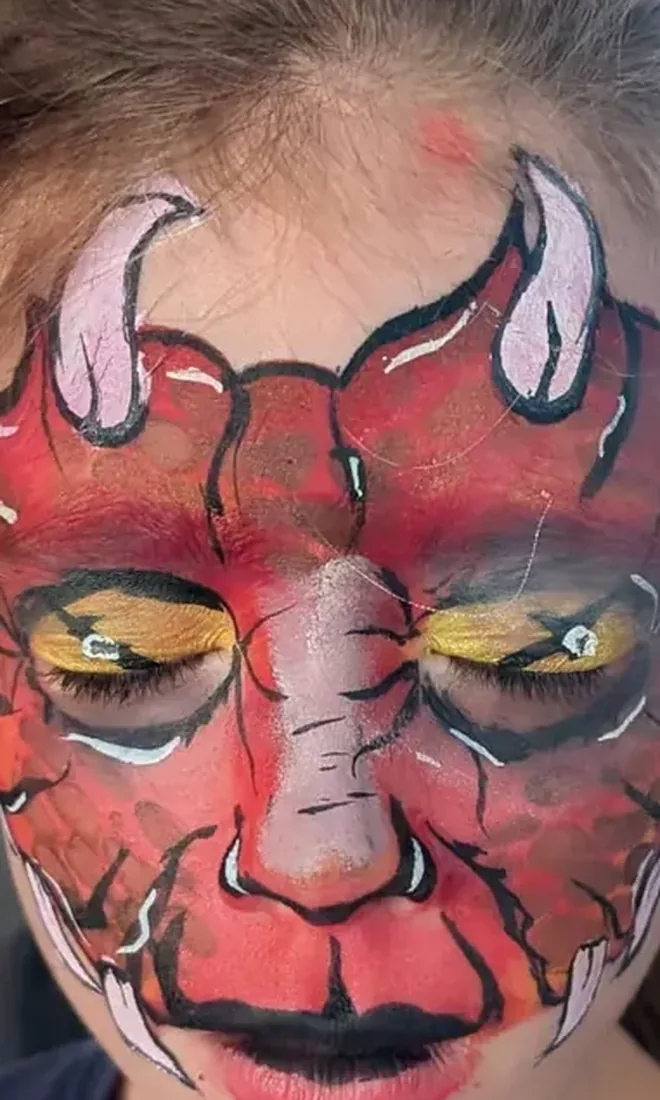
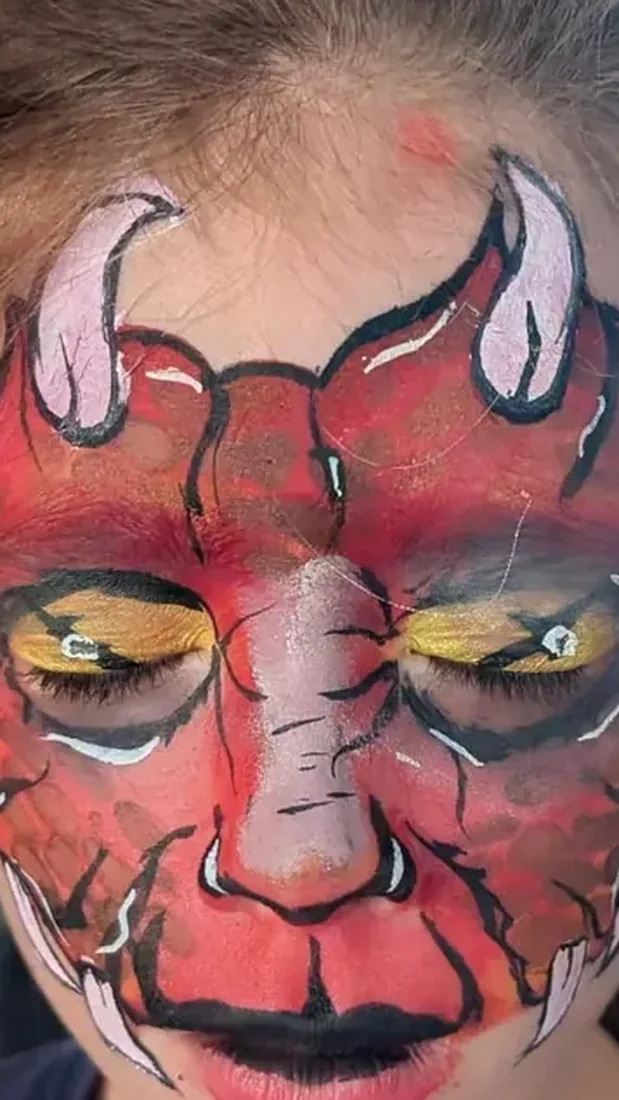
Halloween page: taller, narrower photo line
Claude-Session: https://claude.ai/code/session_012bdPLZhqYkLUzfzYFPc2Bh

diff --git a/hw/halloween-face-painting.html b/hw/halloween-face-painting.html
@@ -193,10 +193,10 @@ h2{font-size:clamp(32px,4.4vw,52px)}
 .dates span.hot{background:var(--orange);color:#1A0B10;border-color:transparent}
 /* strip */
 .strip-wrap{padding:8px 0 4px;background:rgba(12,5,22,.35);backdrop-filter:none}
-.strip{display:grid;grid-auto-flow:column;grid-auto-columns:minmax(330px,1fr);gap:12px;overflow-x:auto;padding:16px 16px 10px;scroll-snap-type:x mandatory;scrollbar-width:none}
+.strip{display:grid;grid-auto-flow:column;grid-auto-columns:minmax(290px,1fr);gap:12px;overflow-x:auto;padding:16px 16px 10px;scroll-snap-type:x mandatory;scrollbar-width:none}
 .strip::-webkit-scrollbar{display:none}
 .strip a{position:relative;display:block;scroll-snap-align:start;border-radius:16px;overflow:hidden;text-decoration:none;color:#fff}
-.strip img{width:100%;height:auto;aspect-ratio:3/5;object-fit:cover;object-position:50% 45%;transition:transform .4s}
+.strip img{width:100%;height:auto;aspect-ratio:9/16;object-fit:cover;object-position:50% 45%;transition:transform .4s}
 .strip a:hover img{transform:scale(1.04)}
 .strip .cap{position:absolute;left:0;right:0;bottom:0;padding:40px 14px 12px;background:linear-gradient(180deg,transparent,rgba(12,5,22,.9));display:flex;justify-content:space-between;align-items:flex-end;gap:8px}
 .strip .cap b{font:400 21px/1.1 var(--disp)}
@@ -285,8 +285,8 @@ footer .ate img{width:70px}
  .hero{min-height:auto;padding:max(96px, calc(19vh - 22px)) 0 40px}
  .hero .lede{font-size:17px}
  .ctas .btn{flex:1 1 auto}
- .strip{grid-auto-columns:76%}
- .strip img{max-height:66vh}
+ .strip{grid-auto-columns:66%}
+ .strip img{max-height:none}
  .band{padding:60px 0}
  .intro,.levels,.reviews,.gt{grid-template-columns:1fr}
  .intro{gap:26px}
@@ -309,7 +309,7 @@ footer .ate img{width:70px}
 <div class="dates"><b>Halloween is on a Saturday this year, and dates are already being booked:</b><span>Sat 24 Oct</span><span>Sun 25 Oct</span><span>Fri 30 Oct</span><span class="hot">Sat 31 Oct</span><span>Sun 1 Nov</span></div>
 </div></section>
 
-<section class="strip-wrap" aria-label="Halloween face painting by Kat"><div class="strip"><a href="https://wa.me/447852300125?text=Hi%20Kat!%20I%20love%20the%20Jack-o%27-lantern%20design.%20Are%20you%20free%20for%20a%20Halloween%20party?%20Date:%20Town:%20" target="_blank" rel="noopener" data-design="Jack-o’-lantern"><img src="halloween-pumpkin-zoom.webp" alt="Jack-o-lantern pumpkin face paint on a girl" width="660" height="1100" loading="eager"><span class="cap"><b>Jack-o’-lantern</b><i>Book this look</i></span></a><a href="https://wa.me/447852300125?text=Hi%20Kat!%20I%20love%20the%20Monster%20skull%20design.%20Are%20you%20free%20for%20a%20Halloween%20party?%20Date:%20Town:%20" target="_blank" rel="noopener" data-design="Monster skull"><img src="halloween-skull-boy-zoom.webp" alt="Monster skull face paint on a boy" width="660" height="1100" loading="eager"><span class="cap"><b>Monster skull</b><i>Book this look</i></span></a><a href="https://wa.me/447852300125?text=Hi%20Kat!%20I%20love%20the%20Red%20devil%20design.%20Are%20you%20free%20for%20a%20Halloween%20party?%20Date:%20Town:%20" target="_blank" rel="noopener" data-design="Red devil"><img src="halloween-devil-girl-zoom.webp" alt="Red devil face paint with horns on a girl" width="660" height="1100" loading="eager"><span class="cap"><b>Red devil</b><i>Book this look</i></span></a><a href="https://wa.me/447852300125?text=Hi%20Kat!%20I%20love%20the%20Werewolf%20design.%20Are%20you%20free%20for%20a%20Halloween%20party?%20Date:%20Town:%20" target="_blank" rel="noopener" data-design="Werewolf"><img src="halloween-werewolf-zoom.webp" alt="Werewolf face paint on a grown-up at a Halloween party" width="660" height="1100" loading="eager"><span class="cap"><b>Werewolf</b><i>Book this look</i></span></a><a href="https://wa.me/447852300125?text=Hi%20Kat!%20I%20love%20the%20Pink%20princess%20crown%20design.%20Are%20you%20free%20for%20a%20Halloween%20party?%20Date:%20Town:%20" target="_blank" rel="noopener" data-design="Pink princess crown"><img src="halloween-princess-zoom.webp" alt="Pink princess crown face paint with a skeleton costume" width="660" height="1100" loading="lazy"><span class="cap"><b>Pink princess crown</b><i>Book this look</i></span></a><a href="https://wa.me/447852300125?text=Hi%20Kat!%20I%20love%20the%20Grown-up%20skull%20design.%20Are%20you%20free%20for%20a%20Halloween%20party?%20Date:%20Town:%20" target="_blank" rel="noopener" data-design="Grown-up skull"><img src="halloween-adult-skull-zoom.webp" alt="Blue and white skull face paint on an adult" width="660" height="1100" loading="lazy"><span class="cap"><b>Grown-up skull</b><i>Book this look</i></span></a><a href="https://wa.me/447852300125?text=Hi%20Kat!%20I%20love%20the%20Half%20skull%20design.%20Are%20you%20free%20for%20a%20Halloween%20party?%20Date:%20Town:%20" target="_blank" rel="noopener" data-design="Half skull"><img src="halloween-half-skull-zoom.webp" alt="Half skull face paint on a boy" width="660" height="1100" loading="lazy"><span class="cap"><b>Half skull</b><i>Book this look</i></span></a><a href="https://wa.me/447852300125?text=Hi%20Kat!%20I%20love%20the%20Roaring%20monster%20design.%20Are%20you%20free%20for%20a%20Halloween%20party?%20Date:%20Town:%20" target="_blank" rel="noopener" data-design="Roaring monster"><img src="halloween-monster-zoom.webp" alt="Blue monster face paint on a roaring child" width="660" height="1100" loading="lazy"><span class="cap"><b>Roaring monster</b><i>Book this look</i></span></a><a href="https://wa.me/447852300125?text=Hi%20Kat!%20I%20love%20the%20Pumpkin%20queen%20design.%20Are%20you%20free%20for%20a%20Halloween%20party?%20Date:%20Town:%20" target="_blank" rel="noopener" data-design="Pumpkin queen"><img src="halloween-pumpkin-big-sister-zoom.webp" alt="Pumpkin face paint on a girl at a Halloween event" width="660" height="1100" loading="lazy"><span class="cap"><b>Pumpkin queen</b><i>Book this look</i></span></a><a href="https://wa.me/447852300125?text=Hi%20Kat!%20I%20love%20the%20Little%20pumpkin%20design.%20Are%20you%20free%20for%20a%20Halloween%20party?%20Date:%20Town:%20" target="_blank" rel="noopener" data-design="Little pumpkin"><img src="halloween-pumpkin-little-sister-zoom.webp" alt="Pumpkin face paint on a little girl" width="660" height="1100" loading="lazy"><span class="cap"><b>Little pumpkin</b><i>Book this look</i></span></a></div>
+<section class="strip-wrap" aria-label="Halloween face painting by Kat"><div class="strip"><a href="https://wa.me/447852300125?text=Hi%20Kat!%20I%20love%20the%20Jack-o%27-lantern%20design.%20Are%20you%20free%20for%20a%20Halloween%20party?%20Date:%20Town:%20" target="_blank" rel="noopener" data-design="Jack-o’-lantern"><img src="halloween-pumpkin-zoom.webp" alt="Jack-o-lantern pumpkin face paint on a girl" width="619" height="1100" loading="eager"><span class="cap"><b>Jack-o’-lantern</b><i>Book this look</i></span></a><a href="https://wa.me/447852300125?text=Hi%20Kat!%20I%20love%20the%20Monster%20skull%20design.%20Are%20you%20free%20for%20a%20Halloween%20party?%20Date:%20Town:%20" target="_blank" rel="noopener" data-design="Monster skull"><img src="halloween-skull-boy-zoom.webp" alt="Monster skull face paint on a boy" width="619" height="1100" loading="eager"><span class="cap"><b>Monster skull</b><i>Book this look</i></span></a><a href="https://wa.me/447852300125?text=Hi%20Kat!%20I%20love%20the%20Red%20devil%20design.%20Are%20you%20free%20for%20a%20Halloween%20party?%20Date:%20Town:%20" target="_blank" rel="noopener" data-design="Red devil"><img src="halloween-devil-girl-zoom.webp" alt="Red devil face paint with horns on a girl" width="619" height="1100" loading="eager"><span class="cap"><b>Red devil</b><i>Book this look</i></span></a><a href="https://wa.me/447852300125?text=Hi%20Kat!%20I%20love%20the%20Werewolf%20design.%20Are%20you%20free%20for%20a%20Halloween%20party?%20Date:%20Town:%20" target="_blank" rel="noopener" data-design="Werewolf"><img src="halloween-werewolf-zoom.webp" alt="Werewolf face paint on a grown-up at a Halloween party" width="619" height="1100" loading="eager"><span class="cap"><b>Werewolf</b><i>Book this look</i></span></a><a href="https://wa.me/447852300125?text=Hi%20Kat!%20I%20love%20the%20Pink%20princess%20crown%20design.%20Are%20you%20free%20for%20a%20Halloween%20party?%20Date:%20Town:%20" target="_blank" rel="noopener" data-design="Pink princess crown"><img src="halloween-princess-zoom.webp" alt="Pink princess crown face paint with a skeleton costume" width="619" height="1100" loading="lazy"><span class="cap"><b>Pink princess crown</b><i>Book this look</i></span></a><a href="https://wa.me/447852300125?text=Hi%20Kat!%20I%20love%20the%20Grown-up%20skull%20design.%20Are%20you%20free%20for%20a%20Halloween%20party?%20Date:%20Town:%20" target="_blank" rel="noopener" data-design="Grown-up skull"><img src="halloween-adult-skull-zoom.webp" alt="Blue and white skull face paint on an adult" width="619" height="1100" loading="lazy"><span class="cap"><b>Grown-up skull</b><i>Book this look</i></span></a><a href="https://wa.me/447852300125?text=Hi%20Kat!%20I%20love%20the%20Half%20skull%20design.%20Are%20you%20free%20for%20a%20Halloween%20party?%20Date:%20Town:%20" target="_blank" rel="noopener" data-design="Half skull"><img src="halloween-half-skull-zoom.webp" alt="Half skull face paint on a boy" width="619" height="1100" loading="lazy"><span class="cap"><b>Half skull</b><i>Book this look</i></span></a><a href="https://wa.me/447852300125?text=Hi%20Kat!%20I%20love%20the%20Roaring%20monster%20design.%20Are%20you%20free%20for%20a%20Halloween%20party?%20Date:%20Town:%20" target="_blank" rel="noopener" data-design="Roaring monster"><img src="halloween-monster-zoom.webp" alt="Blue monster face paint on a roaring child" width="619" height="1100" loading="lazy"><span class="cap"><b>Roaring monster</b><i>Book this look</i></span></a><a href="https://wa.me/447852300125?text=Hi%20Kat!%20I%20love%20the%20Pumpkin%20queen%20design.%20Are%20you%20free%20for%20a%20Halloween%20party?%20Date:%20Town:%20" target="_blank" rel="noopener" data-design="Pumpkin queen"><img src="halloween-pumpkin-big-sister-zoom.webp" alt="Pumpkin face paint on a girl at a Halloween event" width="619" height="1100" loading="lazy"><span class="cap"><b>Pumpkin queen</b><i>Book this look</i></span></a><a href="https://wa.me/447852300125?text=Hi%20Kat!%20I%20love%20the%20Little%20pumpkin%20design.%20Are%20you%20free%20for%20a%20Halloween%20party?%20Date:%20Town:%20" target="_blank" rel="noopener" data-design="Little pumpkin"><img src="halloween-pumpkin-little-sister-zoom.webp" alt="Pumpkin face paint on a little girl" width="619" height="1100" loading="lazy"><span class="cap"><b>Little pumpkin</b><i>Book this look</i></span></a></div>
 <p class="strip-note">Swipe for more, tap a look to book it, or <a href="https://paintingpixie.com/gallery.html">see the full gallery</a></p>
 <div class="wrap trust"><span><b>Calm and patient</b> with nervous little ones</span><span><b>★★★★★ 5.0</b> on Add to Event</span><span>Insured &amp; DBS checked</span><span>Professional skin-safe paints</span></div></section>
 

diff --git a/tools/build_halloween_page.py b/tools/build_halloween_page.py
@@ -122,10 +122,10 @@ h2{font-size:clamp(32px,4.4vw,52px)}
 .dates span.hot{background:var(--orange);color:#1A0B10;border-color:transparent}
 /* strip */
 .strip-wrap{padding:8px 0 4px;background:rgba(12,5,22,.35);backdrop-filter:none}
-.strip{display:grid;grid-auto-flow:column;grid-auto-columns:minmax(330px,1fr);gap:12px;overflow-x:auto;padding:16px 16px 10px;scroll-snap-type:x mandatory;scrollbar-width:none}
+.strip{display:grid;grid-auto-flow:column;grid-auto-columns:minmax(290px,1fr);gap:12px;overflow-x:auto;padding:16px 16px 10px;scroll-snap-type:x mandatory;scrollbar-width:none}
 .strip::-webkit-scrollbar{display:none}
 .strip a{position:relative;display:block;scroll-snap-align:start;border-radius:16px;overflow:hidden;text-decoration:none;color:#fff}
-.strip img{width:100%;height:auto;aspect-ratio:3/5;object-fit:cover;object-position:50% 45%;transition:transform .4s}
+.strip img{width:100%;height:auto;aspect-ratio:9/16;object-fit:cover;object-position:50% 45%;transition:transform .4s}
 .strip a:hover img{transform:scale(1.04)}
 .strip .cap{position:absolute;left:0;right:0;bottom:0;padding:40px 14px 12px;background:linear-gradient(180deg,transparent,rgba(12,5,22,.9));display:flex;justify-content:space-between;align-items:flex-end;gap:8px}
 .strip .cap b{font:400 21px/1.1 var(--disp)}
@@ -214,8 +214,8 @@ footer .ate img{width:70px}
  .hero{min-height:auto;padding:max(96px, calc(19vh - 22px)) 0 40px}
  .hero .lede{font-size:17px}
  .ctas .btn{flex:1 1 auto}
- .strip{grid-auto-columns:76%}
- .strip img{max-height:66vh}
+ .strip{grid-auto-columns:66%}
+ .strip img{max-height:none}
  .band{padding:60px 0}
  .intro,.levels,.reviews,.gt{grid-template-columns:1fr}
  .intro{gap:26px}
@@ -230,7 +230,7 @@ WA_SVG = '<svg viewBox="0 0 32 32" aria-hidden="true"><path d="M16 3C9 3 3.3 8.6
 def body():
     strip = ''.join(
         f'<a href="{wa("Hi Kat! I love the " + c + " design. Are you free for a Halloween party? Date: Town: ")}" target="_blank" rel="noopener" data-design="{esc(c)}">'
-        f'<img src="halloween-{f}-zoom.webp" alt="{esc(a)}" width="660" height="1100" loading="{"eager" if i < 4 else "lazy"}">'
+        f'<img src="halloween-{f}-zoom.webp" alt="{esc(a)}" width="619" height="1100" loading="{"eager" if i < 4 else "lazy"}">'
         f'<span class="cap"><b>{esc(c)}</b><i>Book this look</i></span></a>' for i, (f, c, a) in enumerate(STRIP))
     levels = ''.join(
         f'<article class="level" style="--c:{col}"><div class="pics"><img src="halloween-{a}-card.webp" alt="" loading="lazy"><img src="halloween-{b}-card.webp" alt="" loading="lazy"></div>'

diff --git a/tools/build_halloween_crops.py b/tools/build_halloween_crops.py
@@ -46,7 +46,7 @@ ZOOM_CY = {'devil-girl': .47, 'werewolf': .45, 'pumpkin-big-sister': .20, 'skull
 for k, p, cx, cy, f in C:
     cy = ZOOM_CY.get(k, cy)
     im = ImageOps.exif_transpose(Image.open(p)).convert('RGB'); W, H = im.size
-    cw = f * .44 * W; ch = cw * 5 / 3
+    ch = f * .44 * W * 5 / 3; cw = ch * 9 / 16
     x0 = min(max(cx * W - cw / 2, 0), W - cw); y0 = min(max(cy * H - ch * .47, 0), H - ch)
-    im.crop((round(x0), round(y0), round(x0 + cw), round(y0 + ch))).resize((660, 1100), Image.LANCZOS).save(f'hw/halloween-{k}-zoom.webp', 'WEBP', quality=82, method=6)
+    im.crop((round(x0), round(y0), round(x0 + cw), round(y0 + ch))).resize((619, 1100), Image.LANCZOS).save(f"hw/halloween-{k}-zoom.webp", 'WEBP', quality=82, method=6)
 print('zoom crops done')
